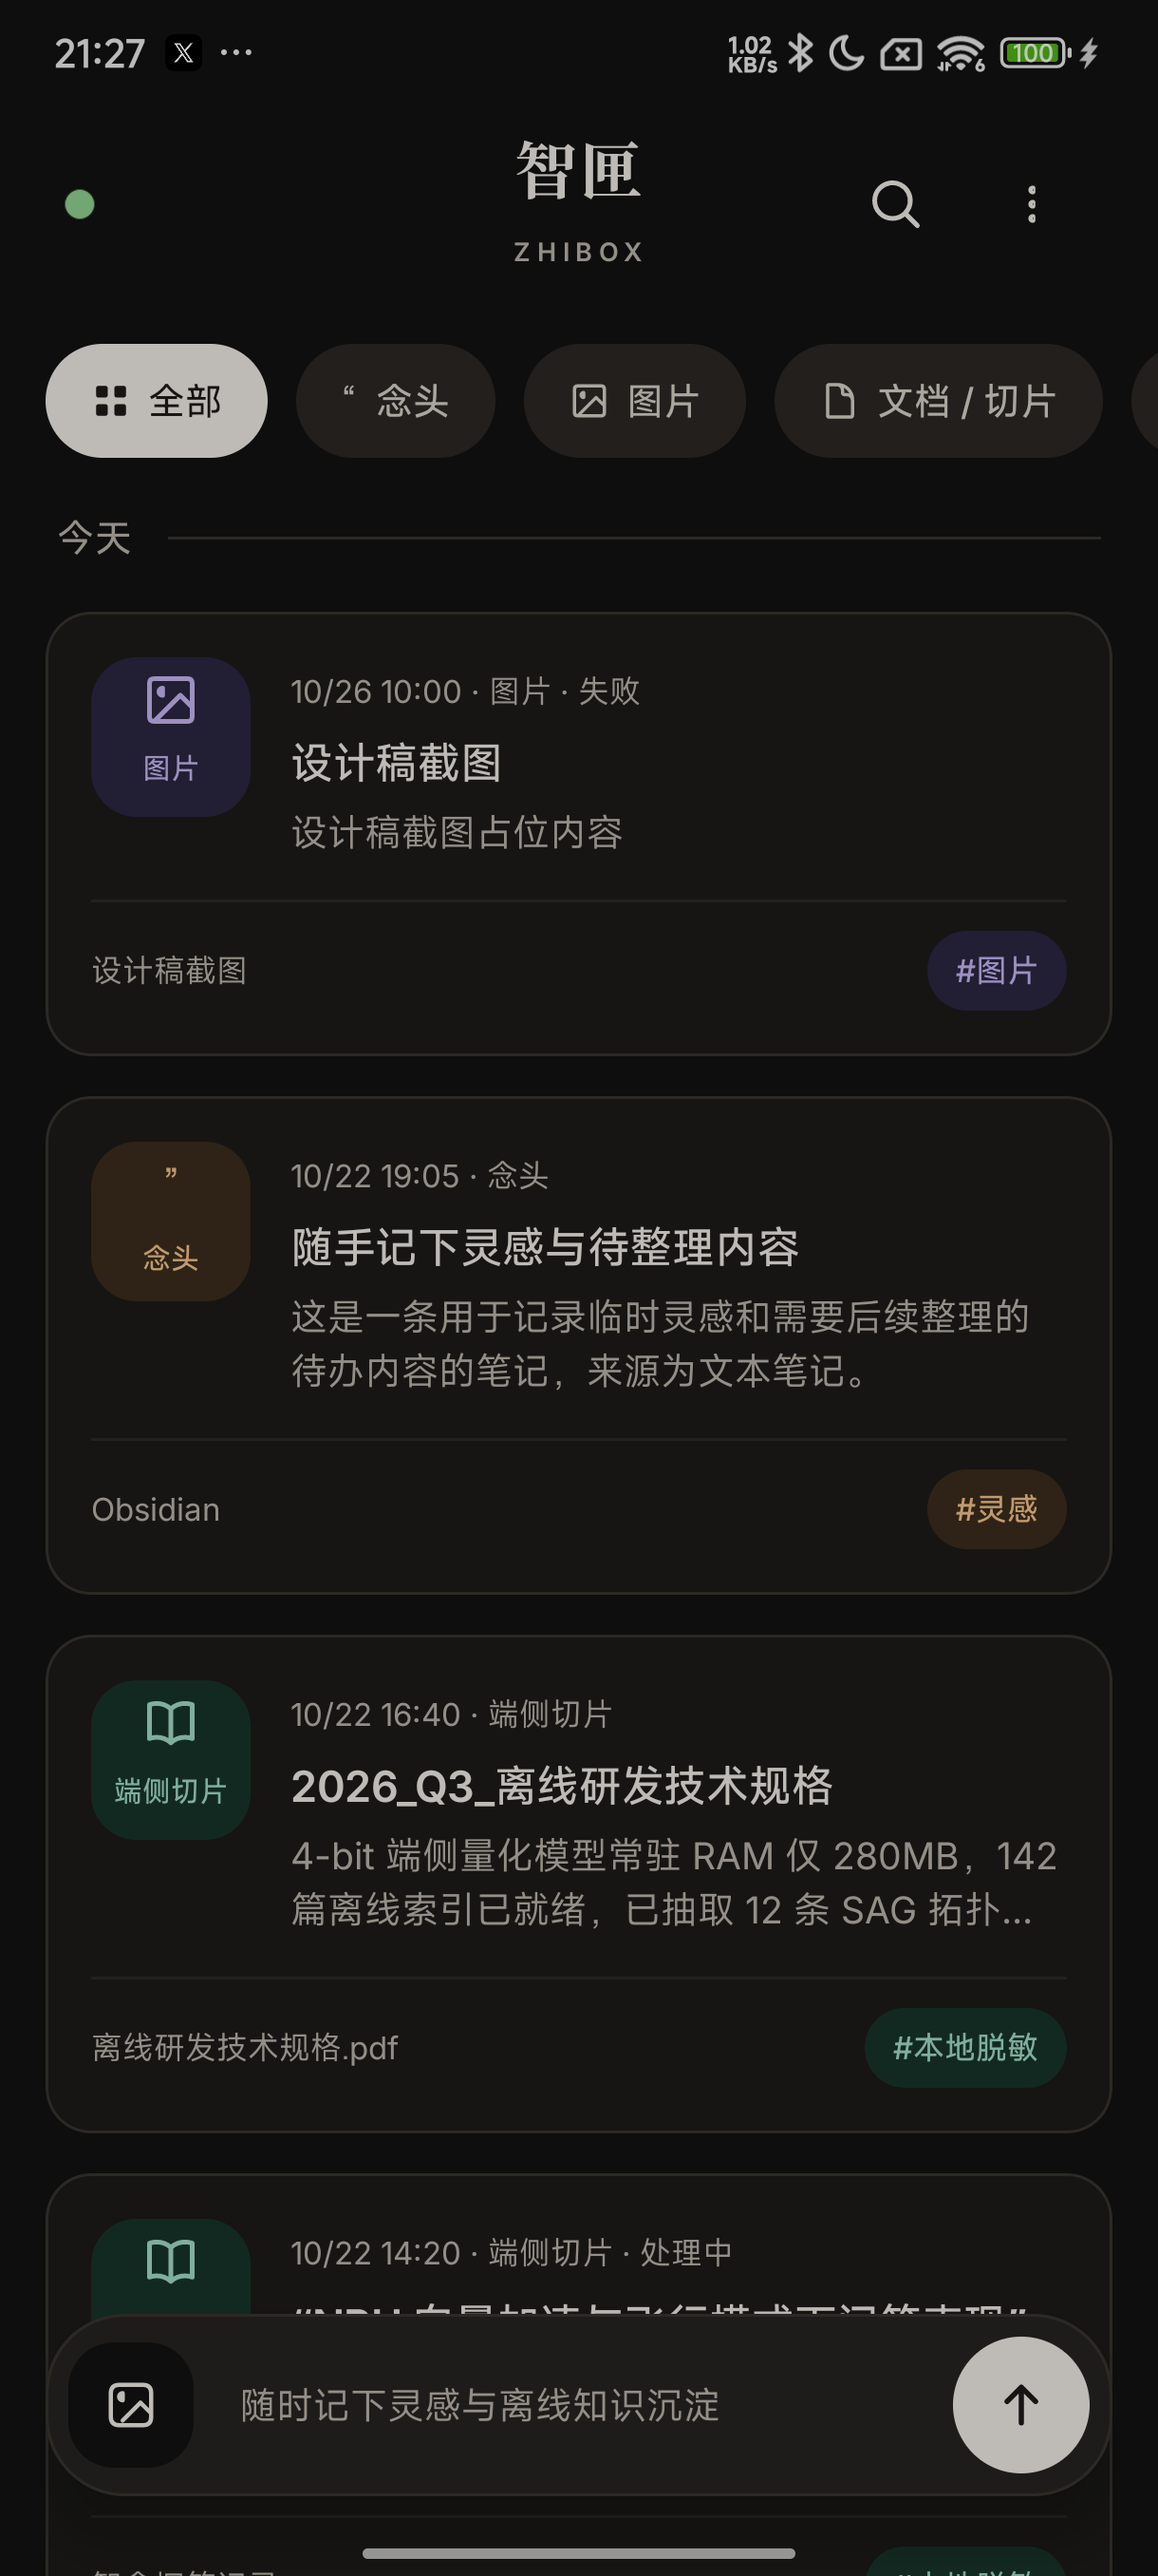
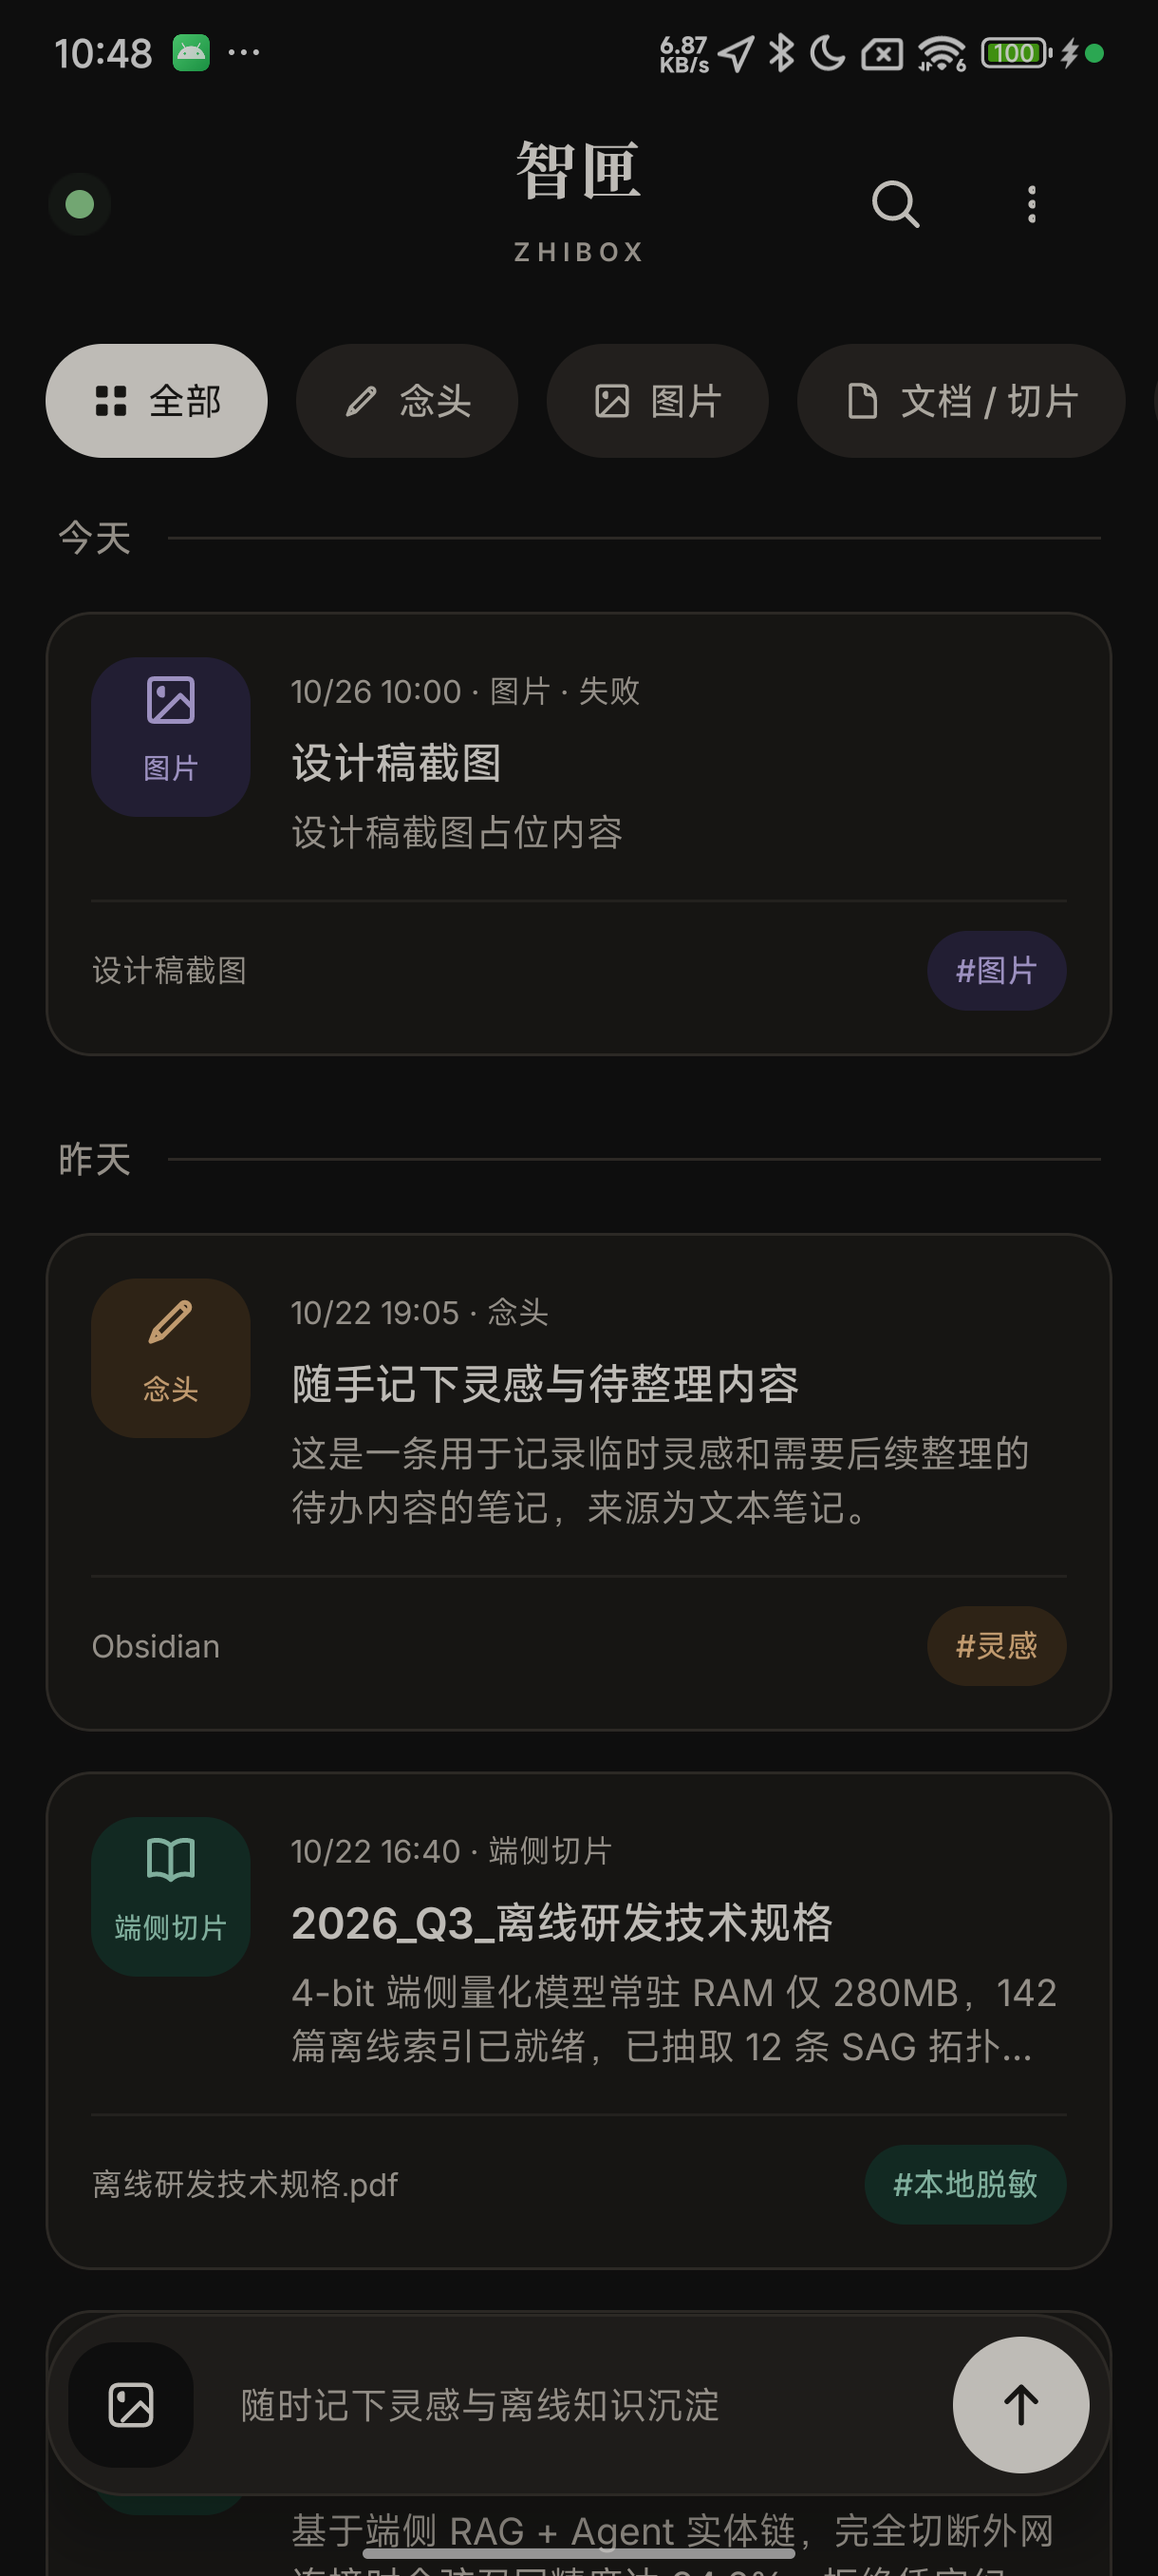
念头分类图标由衬线引号改为铅笔，与同列图标风格统一
设计稿原本用衬线右引号 `”` 表示「念头」，与同列 book/globe 等 24 视口、2px 圆头线条图标
不同源：字形笔画细、留白多，20dp 下视觉重量明显偏轻。

- ZhiBoxIcons 新增 Pencil：笔身 45° 对角铺满 + 笔尖 + 橡皮箍两道分隔线，
  外接 15.9 × 15.9（Book 为 15.75 × 16.9），同规格线条
- 卡片徽标（20dp）与筛选药丸（14dp）统一改用 Pencil，删除两处引号字符分支
- 对比记录：design/main_screen/impl/impl-note-icon-{candidates,compare}.png
  （候选还有羽毛笔/灯泡：羽毛笔 20dp 下读成叶子，灯泡灯座断开偏弱，均未采用）

验证：真机浅色/深色截图，徽标与药丸线条粗细与相邻图标一致

diff --git a/app/src/main/java/com/zhibox/memory/ui/HomeScreen.kt b/app/src/main/java/com/zhibox/memory/ui/HomeScreen.kt
@@ -383,10 +383,9 @@ private fun HomeFilterRow(
     }
 }
 
-private fun HomeFilter.pillIcon(): ImageVector? = when (this) {
+private fun HomeFilter.pillIcon(): ImageVector = when (this) {
     HomeFilter.ALL -> ZhiBoxIcons.Grid
-    // 参考稿「念头」药丸用衬线左引号字符（非图标）
-    HomeFilter.NOTE -> null
+    HomeFilter.NOTE -> ZhiBoxIcons.Pencil
     HomeFilter.IMAGE -> ZhiBoxIcons.Image
     HomeFilter.DOCUMENT -> ZhiBoxIcons.Document
 }
@@ -394,7 +393,7 @@ private fun HomeFilter.pillIcon(): ImageVector? = when (this) {
 @Composable
 private fun FilterPill(
     label: String,
-    icon: ImageVector?,
+    icon: ImageVector,
     selected: Boolean,
     onClick: () -> Unit,
 ) {
@@ -413,23 +412,12 @@ private fun FilterPill(
         verticalAlignment = Alignment.CenterVertically,
         horizontalArrangement = Arrangement.spacedBy(6.dp),
     ) {
-        if (icon == null) {
-            Text(
-                text = "\u201C",
-                fontFamily = BrandSerif,
-                fontSize = 13.sp,
-                fontWeight = FontWeight.Bold,
-                color = content,
-                modifier = Modifier.padding(end = 1.dp),
-            )
-        } else {
-            Icon(
-                imageVector = icon,
-                contentDescription = null,
-                modifier = Modifier.size(14.dp),
-                tint = content,
-            )
-        }
+        Icon(
+            imageVector = icon,
+            contentDescription = null,
+            modifier = Modifier.size(14.dp),
+            tint = content,
+        )
         Text(
             text = label,
             fontSize = 13.sp,
@@ -646,23 +634,12 @@ private fun Badge(
             horizontalAlignment = Alignment.CenterHorizontally,
             verticalArrangement = Arrangement.spacedBy(2.dp),
         ) {
-            if (category == HomeCategory.NOTE) {
-                // 参考稿念头徽标用衬线右引号而非图标
-                Text(
-                    text = "\u201D",
-                    fontFamily = BrandSerif,
-                    fontSize = 14.sp,
-                    fontWeight = FontWeight.Bold,
-                    color = colors.content,
-                )
-            } else {
-                Icon(
-                    imageVector = category.badgeIcon(),
-                    contentDescription = null,
-                    modifier = Modifier.size(20.dp),
-                    tint = colors.content,
-                )
-            }
+            Icon(
+                imageVector = category.badgeIcon(),
+                contentDescription = null,
+                modifier = Modifier.size(20.dp),
+                tint = colors.content,
+            )
             Text(
                 text = label,
                 fontSize = 10.sp,
@@ -690,7 +667,7 @@ private fun TagPill(label: String, colors: BadgeColors) {
 }
 
 private fun HomeCategory.badgeIcon(): ImageVector = when (this) {
-    HomeCategory.NOTE -> ZhiBoxIcons.Grid
+    HomeCategory.NOTE -> ZhiBoxIcons.Pencil
     HomeCategory.IMAGE -> ZhiBoxIcons.Image
     HomeCategory.DOCUMENT -> ZhiBoxIcons.Book
     HomeCategory.SNAPSHOT -> ZhiBoxIcons.Snapshot

diff --git a/app/src/main/java/com/zhibox/memory/ui/ZhiBoxIcons.kt b/app/src/main/java/com/zhibox/memory/ui/ZhiBoxIcons.kt
@@ -55,6 +55,28 @@ object ZhiBoxIcons {
         )
     }
 
+    /**
+     * 念头（铅笔，stroke 2）。
+     *
+     * 设计稿原本用衬线右引号 `”` 表示「念头」，笔画细、留白多，与同列 book/globe 等线性图标
+     * 视觉重量不一致。这里换成同规格（24 视口 / 2px 圆头线条）的铅笔：
+     *   笔身 45° 对角铺满 + 笔尖 + 橡皮箍两道短分隔线，外接 15.9 × 15.9，
+     *   与 Book(15.75 × 16.9) 密度相当；语义对应「随手记下念头」。
+     *
+     * 为什么不用气泡：应用自带「问答」功能（后续会放独立的对话按钮），气泡要留给对话语义。
+     * 为什么不用便签纸：会与「文档 / 切片」的折角纸图标撞形。
+     */
+    val Pencil: ImageVector by lazy {
+        strokeIcon(
+            name = "Pencil",
+            pathData = "M3.57,20.44L5.36,15.84L16.56,4.57A2.04,2.04 0 0 1 19.44,7.44L8.17,18.71Z" +
+                // 笔尖分隔线
+                "M5.36,15.84L8.17,18.71" +
+                // 橡皮箍分隔线
+                "M15.93,5.2L18.8,8.08",
+        )
+    }
+
     /** 图片（参考稿「图片」药丸，stroke 2）。 */
     val Image: ImageVector by lazy {
         strokeIcon(
